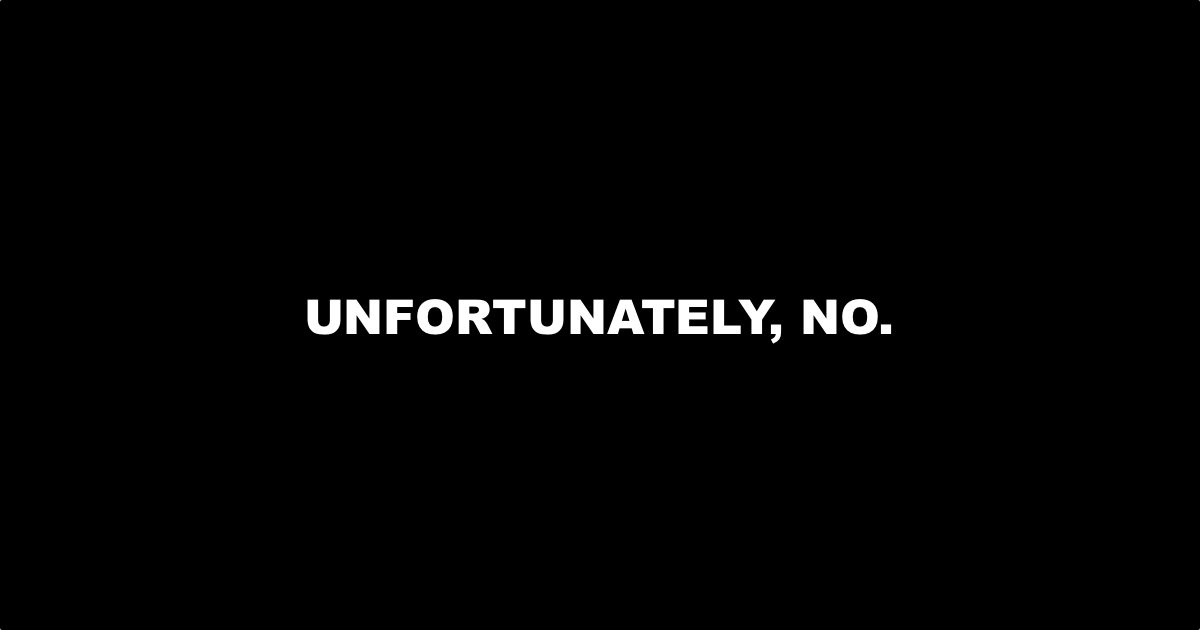
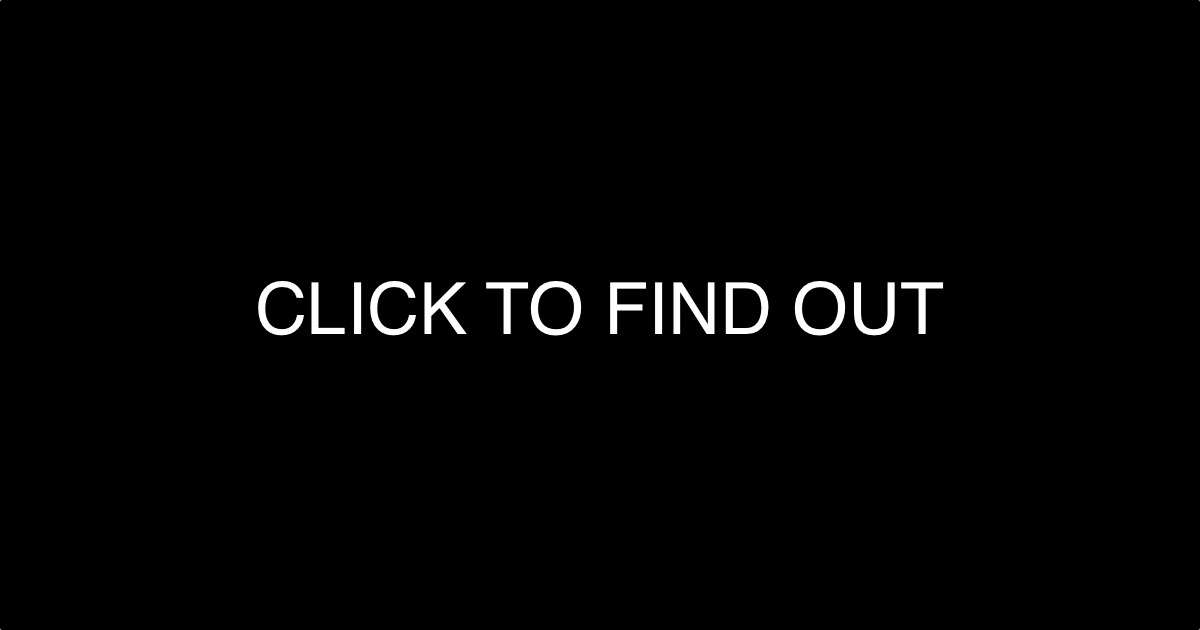
feat: we did it

Changed region(s): [[0.2158, 0.4222, 0.8017, 0.5429]]

diff --git a/index.html b/index.html
@@ -6,13 +6,13 @@
     <meta name="viewport" content="width=device-width, initial-scale=1.0">
 
   <!-- HTML Meta Tags -->
-  <meta name="description" content="UNFORTUNATELY WE HAVE NOT">
+  <meta name="description" content="CLICK TO FIND OUT">
 
   <!-- Facebook Meta Tags -->
   <meta property="og:url" content="https://didwekillforeignkeysyet.com/">
   <meta property="og:type" content="website">
   <meta property="og:title" content="Did we kill foreign keys yet?">
-  <meta property="og:description" content="UNFORTUNATELY WE HAVE NOT">
+  <meta property="og:description" content="CLICK TO FIND OUT">
   <meta property="og:image" content="https://didwekillforegnkeysyet.com/slack-preview.png">
 
   <!-- Twitter Meta Tags -->
@@ -20,32 +20,219 @@
   <meta property="twitter:domain" content="didwekillforeignkeysyet.com">
   <meta property="twitter:url" content="https://didwekillforeignkeysyet.com/">
   <meta name="twitter:title" content="Did we kill foreign keys yet?">
-  <meta name="twitter:description" content="UNFORTUNATELY WE HAVE NOT">
+  <meta name="twitter:description" content="CLICK TO FIND OUT">
   <meta name="twitter:image" content="https://didwekillforeignkeysyet.com/slack-preview.png">
 
   <!-- Meta Tags Generated via https://www.opengraph.xyz -->
+  <script src="https://cdn.jsdelivr.net/npm/@tsparticles/confetti@3.0.3/tsparticles.confetti.bundle.min.js"></script>
         
     <title>Well, did we?</title>
     <style>
-        body {
-            background-color: black;
-            color: white;
-            font-family: Arial, Helvetica, sans-serif;
-            text-align: center;
-        }
+
+
+        :root {
+            --color-background: #31037D;
+            --axis-x: 1px;
+            --axis-y: 1rem;
+            --delay: 10;
+            --color-black: #000;
+            --color-white: #fff;
+            --color-orange: #D49C3D;
+            --color-red: #D14B3D;
+            --color-violet: #CF52EB;
+            --color-blue: #44A3F7;
+            --color-green: #5ACB3C;
+            --color-yellow: #DEBF40;
+            --color-foreground: var(--color-white);
+            --font-name: Righteous;
+            }
+
+            html, body {
+                font-size: 24px;
+                padding: 0;
+                margin: 0;
+            }
+
+            body {
+                background-color: var(--color-background);
+                display: flex;
+                align-items: center;
+                justify-content: center;
+                font-family: var(--font-name);
+                height: 100vh;
+            }
+
+            .header-container {
+                position: absolute;
+                top: 0;
+                left: 0;
+                width: 100vw;
+                height: 20vh;
+                text-align: center;
+            }
+
+            /* .container {
+                position: absolute;
+                display: flex;
+                align-items: center;
+                text-justify: center; 
+                justify-content: center;
+                width: 50vw;
+            } */
+
+            .c-rainbow {
+                counter-reset: rainbow;
+                position: relative;
+                display: block;
+                align-items: center;
+                list-style: none;
+                padding: 0;
+                margin: 0;
+            }
+            .c-rainbow__layer {
+            
+            --text-color: var(--color-foreground);
+            width: 100%;
+            counter-increment: rainbow;
+            font-size: 3rem;
+            color: var(--text-color);
+            text-shadow: -1px -1px 0 var(--color-black), 1px -1px 0 var(--color-black), -1px 1px 0 var(--color-black), 1px 1px 0 var(--color-black), 4px 4px 0 rgba(0, 0, 0, 0.2);
+            animation: rainbow 1.5s ease-in-out infinite;
+            }
+            .c-rainbow__layer:nth-child(1) {
+            animation-delay: calc( 1 / var(--delay) * 1s);
+            left: calc(var(--axis-x) * 1);
+            z-index: -10;
+            }
+            .c-rainbow__layer:nth-child(2) {
+            animation-delay: calc( 2 / var(--delay) * 1s);
+            left: calc(var(--axis-x) * 2);
+            z-index: -20;
+            }
+            .c-rainbow__layer:nth-child(3) {
+            animation-delay: calc( 3 / var(--delay) * 1s);
+            left: calc(var(--axis-x) * 3);
+            z-index: -30;
+            }
+            .c-rainbow__layer:nth-child(4) {
+            animation-delay: calc( 4 / var(--delay) * 1s);
+            left: calc(var(--axis-x) * 4);
+            z-index: -40;
+            }
+            .c-rainbow__layer:nth-child(5) {
+            animation-delay: calc( 5 / var(--delay) * 1s);
+            left: calc(var(--axis-x) * 5);
+            z-index: -50;
+            }
+            .c-rainbow__layer:nth-child(6) {
+            animation-delay: calc( 6 / var(--delay) * 1s);
+            left: calc(var(--axis-x) * 6);
+            z-index: -60;
+            }
+            .c-rainbow__layer:nth-child(7) {
+            animation-delay: calc( 7 / var(--delay) * 1s);
+            left: calc(var(--axis-x) * 7);
+            z-index: -70;
+            }
+            .c-rainbow__layer:not(:first-child) {
+            position: absolute;
+            top: 0;
+            }
+            .c-rainbow__layer--white {
+            --text-color: var(--color-white);
+            }
+            .c-rainbow__layer--orange {
+            --text-color: var(--color-orange);
+            }
+            .c-rainbow__layer--red {
+            --text-color: var(--color-red);
+            }
+            .c-rainbow__layer--violet {
+            --text-color: var(--color-violet);
+            }
+            .c-rainbow__layer--blue {
+            --text-color: var(--color-blue);
+            }
+            .c-rainbow__layer--green {
+            --text-color: var(--color-green);
+            }
+            .c-rainbow__layer--yellow {
+            --text-color: var(--color-yellow);
+            }
+
+            @keyframes rainbow {
+            0%, 100% {
+                transform: translatey(var(--axis-y));
+            }
+            50% {
+                transform: translatey(calc(var(--axis-y) * -1));
+            }
+            }
+
         h1 {
             font-size: 5rem;
             margin-top: 20vh;
         }
         h3 {
-            color: #111;
+            display: block;
+            color: var(--color-blue);
             font-size: 2rem;
             margin-top: 10vh;
         }
     </style>
 </head>
 <body>
-    <h3>Did we kill foreign keys yet?</h3>
-    <h1>UNFORTUNATELY, NO.</h1>
+    <div class="header-container">
+        <h3>Did we kill foreign keys yet?</h3>
+    </div>
+    <!-- <h1>UNFORTUNATELY, NO.</h1> -->
+
+    <!-- <div>
+    <div class="container"> -->
+    <ul class="c-rainbow">
+        <li class="c-rainbow__layer c-rainbow__layer--white">YES WE DID!!!</li>
+        <li class="c-rainbow__layer c-rainbow__layer--orange">YES WE DID!!!</li>
+        <li class="c-rainbow__layer c-rainbow__layer--red">YES WE DID!!!</li>
+        <li class="c-rainbow__layer c-rainbow__layer--violet">YES WE DID!!!</li>
+        <li class="c-rainbow__layer c-rainbow__layer--blue">YES WE DID!!!</li>
+        <li class="c-rainbow__layer c-rainbow__layer--green">YES WE DID!!!</li>
+        <li class="c-rainbow__layer c-rainbow__layer--yellow">YES WE DID!!!</li>
+    </ul>
+
+    <!-- </div>
+    </div> -->
+    <script>
+        const duration = 15 * 1000,
+        animationEnd = Date.now() + duration,
+        defaults = { startVelocity: 30, spread: 360, ticks: 60, zIndex: 0 };
+
+        function randomInRange(min, max) {
+        return Math.random() * (max - min) + min;
+        }
+
+        const interval = setInterval(function() {
+        const timeLeft = animationEnd - Date.now();
+
+        if (timeLeft <= 0) {
+            return clearInterval(interval);
+        }
+
+        const particleCount = 50 * (timeLeft / duration);
+
+        // since particles fall down, start a bit higher than random
+        confetti(
+            Object.assign({}, defaults, {
+            particleCount,
+            origin: { x: randomInRange(0.1, 0.3), y: Math.random() - 0.2 },
+            })
+        );
+        confetti(
+            Object.assign({}, defaults, {
+            particleCount,
+            origin: { x: randomInRange(0.7, 0.9), y: Math.random() - 0.2 },
+            })
+        );
+        }, 250);
+    </script>
 </body>
 </html>
